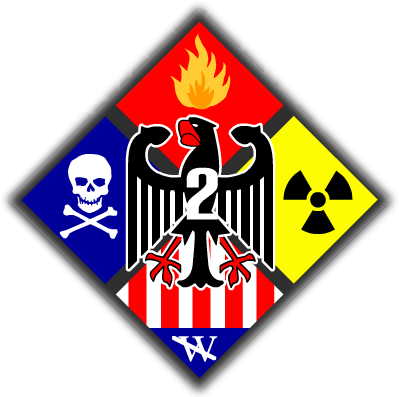
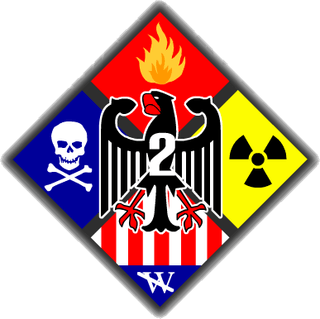
Confederación: escudos sin fondo y directorio en tarjetas
- Los 17 escudos pasan a PNG con fondo transparente (se quita el blanco o
  negro de fondo), recortados y de tamaño parejo.
- El directorio nacional deja de ser una tabla y usa las mismas tarjetas
  cargo + nombre de Dotación; se agrega el título Compañías confederadas.

Claude-Session: https://claude.ai/code/session_01Hu7YEUVhKE7yvRYdWmftyZ

Changed region(s): [[0.0, 0.0, 1.0, 1.0]]

diff --git a/confederacion/index.html b/confederacion/index.html
@@ -52,29 +52,36 @@
 <article class="wrap contenido">
 <p><strong><img src="../assets/img/2013-06-index_r1_c12.jpg" width="286" height="90" alt="Confederación de Compañías Chileno-Alemanas de Bomberos" loading="lazy">La Confederación de Compañías Chileno-Alemanas reúne a las compañías de bomberos que a lo largo de la Historia de Chile han sido fundadas por ciudadanos alemanes, o descendientes de alemanes, radicados en nuestra patria. Sus objetivos generales consisten en preservar la memoria de los fundadores, conservar tradiciones culturales alemanas, establecer una convivencia entre instituciones de origen cultural común, intercambiar información, conocimiento y capacitación para un mejor cumplimiento de nuestros objetivos operacionales.</strong></p>
 <p>Anualmente la Confederación efectúa una convención que reúne a numerosos delegados y que nos permite analizar administrativa y técnicamente la labor que efectuamos y conocer las experiencias de nuestros camaradas. La Confederación de Compañías Chileno–Alemanas es respetuosa de la institucionalidad establecida por la Junta Nacional de Cuerpos de Bomberos de Chile, respalda su trabajo y colabora en las tareas que institucionalmente ella dispone.</p>
-<p>Actualmente la Confederación es dirigida por un directorio nacional, compuesto por voluntarios elegidos de las 20 compañías confederadas a nivel nacional. El directorio actual, es el siguiente :</p>
-<table><tbody><tr><td>Directorio Confederación de Compañías Chileno-Alemanas de Bomberos</td></tr><tr><td>Presidente de la Confederación &#8211; Sr. Tomás Erber Rodolph</td></tr><tr><td>Vice Presidentes de la confederación<br>
-&#8211; Sr. Luis Rigo-Righi Aubel<br>
-&#8211; Sr. Marco Marín Negrín<br>
-&#8211; Sr. Vinicio Contreras</td></tr><tr><td>Secretario de la confederación &#8211; Sr. Eduardo Poehls Bustos</td></tr><tr><td>Tesorero de la Confederación &#8211; Sr. Jorge Tapia Castillo</td></tr><tr><td>Pdte. Comisión Técnica &#8211; Sr. Cristian Riquelme Guerraty</td></tr></tbody></table>
+<p>Actualmente la Confederación es dirigida por un directorio nacional, compuesto por voluntarios elegidos de las 20 compañías confederadas a nivel nacional. El directorio actual es el siguiente:</p>
+<h2>Directorio nacional</h2>
+<ul class="oficiales">
+<li><span>Presidente</span>Tomás Erber Rodolph</li>
+<li><span>Vicepresidente</span>Luis Rigo-Righi Aubel</li>
+<li><span>Vicepresidente</span>Marco Marín Negrín</li>
+<li><span>Vicepresidente</span>Vinicio Contreras</li>
+<li><span>Secretario</span>Eduardo Poehls Bustos</li>
+<li><span>Tesorero</span>Jorge Tapia Castillo</li>
+<li><span>Presidente Comisión Técnica</span>Cristian Riquelme Guerraty</li>
+</ul>
+<h2>Compañías confederadas</h2>
 <div class="cias">
-<article class="cia"><img src="../assets/img/confe-valparaiso-2.gif" width="220" height="272" alt="Escudo de la 2ª «Germania» de Valparaíso" loading="lazy"><h4>2ª «Germania» de Valparaíso</h4><p>Fundada el 30 de junio de 1851</p><p class="cia-dir">Blanco 630, Valparaíso</p><a href="https://bombagermania.cl/" target="_blank" rel="noopener">Sitio web</a></article>
-<article class="cia"><img src="../assets/img/confe-valdivia-1.png" width="157" height="198" alt="Escudo de la 1ª «Germania» de Valdivia" loading="lazy"><h4>1ª «Germania» de Valdivia</h4><p>Fundada el 1 de marzo de 1852</p><p class="cia-dir">Los Lingues 530, Valdivia</p></article>
-<article class="cia"><img src="../assets/img/confe-puerto-montt-2.png" width="209" height="242" alt="Escudo de la 2ª «Germania» de Puerto Montt" loading="lazy"><h4>2ª «Germania» de Puerto Montt</h4><p>Fundada el 19 de junio de 1865</p><p class="cia-dir">San Felipe s/n, Puerto Montt</p></article>
-<article class="cia"><img src="../assets/img/confe-osorno-2.jpg" width="167" height="113" alt="Escudo de la 2ª «Germania» de Osorno" loading="lazy"><h4>2ª «Germania» de Osorno</h4><p>Fundada el 27 de agosto de 1865</p><p class="cia-dir">O’Higgins 909, Osorno</p></article>
-<article class="cia"><img src="../assets/img/confe-la-union-1.jpg" width="300" height="337" alt="Escudo de la 1ª «Germania» de La Unión" loading="lazy"><h4>1ª «Germania» de La Unión</h4><p>Fundada el 3 de octubre de 1869</p><p class="cia-dir">Letelier 287, La Unión</p></article>
-<article class="cia"><img src="../assets/img/confe-temuco-3.jpg" width="105" height="117" alt="Escudo de la 3ª «Germania» de Temuco" loading="lazy"><h4>3ª «Germania» de Temuco</h4><p>Fundada el 25 de junio de 1899</p><p class="cia-dir">Prieto 450, Temuco</p><a href="https://germaniatemuco.cl/" target="_blank" rel="noopener">Sitio web</a></article>
-<article class="cia"><img src="../assets/img/confe-punta-arenas-3.png" width="300" height="300" alt="Escudo de la 3ª «Bomba Alemana» de Punta Arenas" loading="lazy"><h4>3ª «Bomba Alemana» de Punta Arenas</h4><p>Fundada el 19 de enero de 1901</p><p class="cia-dir">Av. Eduardo Frei Montalva 0983, Punta Arenas</p></article>
-<article class="cia"><img src="../assets/img/confe-talcahuano-5.jpg" width="150" height="131" alt="Escudo de la 5ª «Bomba Chile» de Talcahuano" loading="lazy"><h4>5ª «Bomba Chile» de Talcahuano</h4><p>Fundada el 29 de enero de 1908</p><p class="cia-dir">Avenida Río Maule 5383, Talcahuano</p></article>
-<article class="cia"><img src="../assets/img/confe-rio-bueno-1.jpg" width="440" height="300" alt="Escudo de la 1ª «Germania» de Río Bueno" loading="lazy"><h4>1ª «Germania» de Río Bueno</h4><p>Fundada el 9 de junio de 1909</p><p class="cia-dir">Independencia 1145, Río Bueno</p></article>
-<article class="cia"><img src="../assets/img/confe-puerto-varas-2.png" width="399" height="397" alt="Escudo de la 2ª «Germania» de Puerto Varas" loading="lazy"><h4>2ª «Germania» de Puerto Varas</h4><p>Fundada el 5 de marzo de 1911</p><p class="cia-dir">San Francisco 601, Puerto Varas</p><a href="https://www.segundagermania.cl/" target="_blank" rel="noopener">Sitio web</a></article>
-<article class="cia"><img src="../assets/img/confe-frutillar-1.jpg" width="360" height="300" alt="Escudo de la 1ª «Germania» de Frutillar" loading="lazy"><h4>1ª «Germania» de Frutillar</h4><p>Fundada el 10 de agosto de 1913</p><p class="cia-dir">Avenida Philippi 1065, Frutillar</p></article>
-<article class="cia"><img src="../assets/img/confe-llanquihue-1.jpg" width="236" height="300" alt="Escudo de la 1ª «Germania» de Llanquihue" loading="lazy"><h4>1ª «Germania» de Llanquihue</h4><p>Fundada el 4 de agosto de 1929</p><p class="cia-dir">Baquedano 1001, Llanquihue</p><a href="https://primeragermania.cl/" target="_blank" rel="noopener">Sitio web</a></article>
-<article class="cia"><img src="../assets/img/confe-concepcion-7.jpg" width="150" height="154" alt="Escudo de la 7ª «Bernhardt Eunom Philippi» de Concepción" loading="lazy"><h4>7ª «Bernhardt Eunom Philippi» de Concepción</h4><p>Fundada el 7 de septiembre de 1949</p><p class="cia-dir">Veteranos del 79 s/n, Concepción</p></article>
-<article class="cia"><img src="../assets/img/confe-santiago-15.png" width="175" height="177" alt="Escudo de la 15ª «Máximo Humbser» de Santiago" loading="lazy"><h4>15ª «Máximo Humbser» de Santiago</h4><p>Fundada el 29 de octubre de 1958</p><p class="cia-dir">Avenida Apoquindo 8115, Santiago</p></article>
-<article class="cia"><img src="../assets/img/confe-puerto-varas-6.jpg" width="338" height="353" alt="Escudo de la 6ª «Puerto Chico» de Puerto Varas" loading="lazy"><h4>6ª «Puerto Chico» de Puerto Varas</h4><p>Fundada el 18 de febrero de 1981</p><p class="cia-dir">Avenida Errázuriz s/n, Puerto Varas</p><a href="https://www.sechste.cl/" target="_blank" rel="noopener">Sitio web</a></article>
-<article class="cia"><img src="../assets/img/confe-pitrufquen-4.gif" width="165" height="216" alt="Escudo de la 4ª «Faja Maisan» de Pitrufquén" loading="lazy"><h4>4ª «Faja Maisan» de Pitrufquén</h4><p>Fundada el 26 de septiembre de 1981</p><p class="cia-dir">Faja Maisan s/n, Pitrufquén</p></article>
-<article class="cia"><img src="../assets/img/confe-los-angeles-6.jpg" width="500" height="600" alt="Escudo de la 6ª «Chileno Alemana» de Los Ángeles" loading="lazy"><h4>6ª «Chileno Alemana» de Los Ángeles</h4><p>Fundada el 14 de marzo de 1997</p><p class="cia-dir">Avenida Gabriela Mistral 1560, Los Ángeles</p></article>
+<article class="cia"><img src="../assets/img/confe-valparaiso-2.png" width="218" height="268" alt="Escudo de la 2ª «Germania» de Valparaíso" loading="lazy"><h4>2ª «Germania» de Valparaíso</h4><p>Fundada el 30 de junio de 1851</p><p class="cia-dir">Blanco 630, Valparaíso</p><a href="https://bombagermania.cl/" target="_blank" rel="noopener">Sitio web</a></article>
+<article class="cia"><img src="../assets/img/confe-valdivia-1.png" width="155" height="194" alt="Escudo de la 1ª «Germania» de Valdivia" loading="lazy"><h4>1ª «Germania» de Valdivia</h4><p>Fundada el 1 de marzo de 1852</p><p class="cia-dir">Los Lingues 530, Valdivia</p></article>
+<article class="cia"><img src="../assets/img/confe-puerto-montt-2.png" width="205" height="240" alt="Escudo de la 2ª «Germania» de Puerto Montt" loading="lazy"><h4>2ª «Germania» de Puerto Montt</h4><p>Fundada el 19 de junio de 1865</p><p class="cia-dir">San Felipe s/n, Puerto Montt</p></article>
+<article class="cia"><img src="../assets/img/confe-osorno-2.png" width="154" height="89" alt="Escudo de la 2ª «Germania» de Osorno" loading="lazy"><h4>2ª «Germania» de Osorno</h4><p>Fundada el 27 de agosto de 1865</p><p class="cia-dir">O’Higgins 909, Osorno</p></article>
+<article class="cia"><img src="../assets/img/confe-la-union-1.png" width="267" height="320" alt="Escudo de la 1ª «Germania» de La Unión" loading="lazy"><h4>1ª «Germania» de La Unión</h4><p>Fundada el 3 de octubre de 1869</p><p class="cia-dir">Letelier 287, La Unión</p></article>
+<article class="cia"><img src="../assets/img/confe-temuco-3.png" width="99" height="110" alt="Escudo de la 3ª «Germania» de Temuco" loading="lazy"><h4>3ª «Germania» de Temuco</h4><p>Fundada el 25 de junio de 1899</p><p class="cia-dir">Prieto 450, Temuco</p><a href="https://germaniatemuco.cl/" target="_blank" rel="noopener">Sitio web</a></article>
+<article class="cia"><img src="../assets/img/confe-punta-arenas-3.png" width="238" height="270" alt="Escudo de la 3ª «Bomba Alemana» de Punta Arenas" loading="lazy"><h4>3ª «Bomba Alemana» de Punta Arenas</h4><p>Fundada el 19 de enero de 1901</p><p class="cia-dir">Av. Eduardo Frei Montalva 0983, Punta Arenas</p></article>
+<article class="cia"><img src="../assets/img/confe-talcahuano-5.png" width="106" height="124" alt="Escudo de la 5ª «Bomba Chile» de Talcahuano" loading="lazy"><h4>5ª «Bomba Chile» de Talcahuano</h4><p>Fundada el 29 de enero de 1908</p><p class="cia-dir">Avenida Río Maule 5383, Talcahuano</p></article>
+<article class="cia"><img src="../assets/img/confe-rio-bueno-1.png" width="230" height="293" alt="Escudo de la 1ª «Germania» de Río Bueno" loading="lazy"><h4>1ª «Germania» de Río Bueno</h4><p>Fundada el 9 de junio de 1909</p><p class="cia-dir">Independencia 1145, Río Bueno</p></article>
+<article class="cia"><img src="../assets/img/confe-puerto-varas-2.png" width="320" height="319" alt="Escudo de la 2ª «Germania» de Puerto Varas" loading="lazy"><h4>2ª «Germania» de Puerto Varas</h4><p>Fundada el 5 de marzo de 1911</p><p class="cia-dir">San Francisco 601, Puerto Varas</p><a href="https://www.segundagermania.cl/" target="_blank" rel="noopener">Sitio web</a></article>
+<article class="cia"><img src="../assets/img/confe-frutillar-1.png" width="284" height="278" alt="Escudo de la 1ª «Germania» de Frutillar" loading="lazy"><h4>1ª «Germania» de Frutillar</h4><p>Fundada el 10 de agosto de 1913</p><p class="cia-dir">Avenida Philippi 1065, Frutillar</p></article>
+<article class="cia"><img src="../assets/img/confe-llanquihue-1.png" width="236" height="300" alt="Escudo de la 1ª «Germania» de Llanquihue" loading="lazy"><h4>1ª «Germania» de Llanquihue</h4><p>Fundada el 4 de agosto de 1929</p><p class="cia-dir">Baquedano 1001, Llanquihue</p><a href="https://primeragermania.cl/" target="_blank" rel="noopener">Sitio web</a></article>
+<article class="cia"><img src="../assets/img/confe-concepcion-7.png" width="142" height="139" alt="Escudo de la 7ª «Bernhardt Eunom Philippi» de Concepción" loading="lazy"><h4>7ª «Bernhardt Eunom Philippi» de Concepción</h4><p>Fundada el 7 de septiembre de 1949</p><p class="cia-dir">Veteranos del 79 s/n, Concepción</p></article>
+<article class="cia"><img src="../assets/img/confe-santiago-15.png" width="173" height="161" alt="Escudo de la 15ª «Máximo Humbser» de Santiago" loading="lazy"><h4>15ª «Máximo Humbser» de Santiago</h4><p>Fundada el 29 de octubre de 1958</p><p class="cia-dir">Avenida Apoquindo 8115, Santiago</p></article>
+<article class="cia"><img src="../assets/img/confe-puerto-varas-6.png" width="273" height="320" alt="Escudo de la 6ª «Puerto Chico» de Puerto Varas" loading="lazy"><h4>6ª «Puerto Chico» de Puerto Varas</h4><p>Fundada el 18 de febrero de 1981</p><p class="cia-dir">Avenida Errázuriz s/n, Puerto Varas</p><a href="https://www.sechste.cl/" target="_blank" rel="noopener">Sitio web</a></article>
+<article class="cia"><img src="../assets/img/confe-pitrufquen-4.png" width="161" height="209" alt="Escudo de la 4ª «Faja Maisan» de Pitrufquén" loading="lazy"><h4>4ª «Faja Maisan» de Pitrufquén</h4><p>Fundada el 26 de septiembre de 1981</p><p class="cia-dir">Faja Maisan s/n, Pitrufquén</p></article>
+<article class="cia"><img src="../assets/img/confe-los-angeles-6.png" width="193" height="320" alt="Escudo de la 6ª «Chileno Alemana» de Los Ángeles" loading="lazy"><h4>6ª «Chileno Alemana» de Los Ángeles</h4><p>Fundada el 14 de marzo de 1997</p><p class="cia-dir">Avenida Gabriela Mistral 1560, Los Ángeles</p></article>
 <article class="cia"><h4>1ª «Germania» de Paillaco</h4><p>Fecha de fundación por confirmar</p></article>
 <article class="cia"><h4>4ª «Los Bajos» de Frutillar</h4><p>Fecha de fundación por confirmar</p></article>
 </div>

diff --git a/herramientas/contenido/confederacion.html b/herramientas/contenido/confederacion.html
@@ -1,28 +1,35 @@
 <p><strong><img src="../assets/img/2013-06-index_r1_c12.jpg" alt="Confederación de Compañías Chileno-Alemanas de Bomberos" loading="lazy">La Confederación de Compañías Chileno-Alemanas reúne a las compañías de bomberos que a lo largo de la Historia de Chile han sido fundadas por ciudadanos alemanes, o descendientes de alemanes, radicados en nuestra patria. Sus objetivos generales consisten en preservar la memoria de los fundadores, conservar tradiciones culturales alemanas, establecer una convivencia entre instituciones de origen cultural común, intercambiar información, conocimiento y capacitación para un mejor cumplimiento de nuestros objetivos operacionales.</strong></p>
 <p>Anualmente la Confederación efectúa una convención que reúne a numerosos delegados y que nos permite analizar administrativa y técnicamente la labor que efectuamos y conocer las experiencias de nuestros camaradas. La Confederación de Compañías Chileno–Alemanas es respetuosa de la institucionalidad establecida por la Junta Nacional de Cuerpos de Bomberos de Chile, respalda su trabajo y colabora en las tareas que institucionalmente ella dispone.</p>
-<p>Actualmente la Confederación es dirigida por un directorio nacional, compuesto por voluntarios elegidos de las 20 compañías confederadas a nivel nacional. El directorio actual, es el siguiente :</p>
-<table><tbody><tr><td>Directorio Confederación de Compañías Chileno-Alemanas de Bomberos</td></tr><tr><td>Presidente de la Confederación &#8211; Sr. Tomás Erber Rodolph</td></tr><tr><td>Vice Presidentes de la confederación<br>
-&#8211; Sr. Luis Rigo-Righi Aubel<br>
-&#8211; Sr. Marco Marín Negrín<br>
-&#8211; Sr. Vinicio Contreras</td></tr><tr><td>Secretario de la confederación &#8211; Sr. Eduardo Poehls Bustos</td></tr><tr><td>Tesorero de la Confederación &#8211; Sr. Jorge Tapia Castillo</td></tr><tr><td>Pdte. Comisión Técnica &#8211; Sr. Cristian Riquelme Guerraty</td></tr></tbody></table>
+<p>Actualmente la Confederación es dirigida por un directorio nacional, compuesto por voluntarios elegidos de las 20 compañías confederadas a nivel nacional. El directorio actual es el siguiente:</p>
+<h2>Directorio nacional</h2>
+<ul class="oficiales">
+<li><span>Presidente</span>Tomás Erber Rodolph</li>
+<li><span>Vicepresidente</span>Luis Rigo-Righi Aubel</li>
+<li><span>Vicepresidente</span>Marco Marín Negrín</li>
+<li><span>Vicepresidente</span>Vinicio Contreras</li>
+<li><span>Secretario</span>Eduardo Poehls Bustos</li>
+<li><span>Tesorero</span>Jorge Tapia Castillo</li>
+<li><span>Presidente Comisión Técnica</span>Cristian Riquelme Guerraty</li>
+</ul>
+<h2>Compañías confederadas</h2>
 <div class="cias">
-<article class="cia"><img src="../assets/img/confe-valparaiso-2.gif" alt="Escudo de la 2ª «Germania» de Valparaíso" loading="lazy"><h4>2ª «Germania» de Valparaíso</h4><p>Fundada el 30 de junio de 1851</p><p class="cia-dir">Blanco 630, Valparaíso</p><a href="https://bombagermania.cl/" target="_blank" rel="noopener">Sitio web</a></article>
+<article class="cia"><img src="../assets/img/confe-valparaiso-2.png" alt="Escudo de la 2ª «Germania» de Valparaíso" loading="lazy"><h4>2ª «Germania» de Valparaíso</h4><p>Fundada el 30 de junio de 1851</p><p class="cia-dir">Blanco 630, Valparaíso</p><a href="https://bombagermania.cl/" target="_blank" rel="noopener">Sitio web</a></article>
 <article class="cia"><img src="../assets/img/confe-valdivia-1.png" alt="Escudo de la 1ª «Germania» de Valdivia" loading="lazy"><h4>1ª «Germania» de Valdivia</h4><p>Fundada el 1 de marzo de 1852</p><p class="cia-dir">Los Lingues 530, Valdivia</p></article>
 <article class="cia"><img src="../assets/img/confe-puerto-montt-2.png" alt="Escudo de la 2ª «Germania» de Puerto Montt" loading="lazy"><h4>2ª «Germania» de Puerto Montt</h4><p>Fundada el 19 de junio de 1865</p><p class="cia-dir">San Felipe s/n, Puerto Montt</p></article>
-<article class="cia"><img src="../assets/img/confe-osorno-2.jpg" alt="Escudo de la 2ª «Germania» de Osorno" loading="lazy"><h4>2ª «Germania» de Osorno</h4><p>Fundada el 27 de agosto de 1865</p><p class="cia-dir">O’Higgins 909, Osorno</p></article>
-<article class="cia"><img src="../assets/img/confe-la-union-1.jpg" alt="Escudo de la 1ª «Germania» de La Unión" loading="lazy"><h4>1ª «Germania» de La Unión</h4><p>Fundada el 3 de octubre de 1869</p><p class="cia-dir">Letelier 287, La Unión</p></article>
-<article class="cia"><img src="../assets/img/confe-temuco-3.jpg" alt="Escudo de la 3ª «Germania» de Temuco" loading="lazy"><h4>3ª «Germania» de Temuco</h4><p>Fundada el 25 de junio de 1899</p><p class="cia-dir">Prieto 450, Temuco</p><a href="https://germaniatemuco.cl/" target="_blank" rel="noopener">Sitio web</a></article>
+<article class="cia"><img src="../assets/img/confe-osorno-2.png" alt="Escudo de la 2ª «Germania» de Osorno" loading="lazy"><h4>2ª «Germania» de Osorno</h4><p>Fundada el 27 de agosto de 1865</p><p class="cia-dir">O’Higgins 909, Osorno</p></article>
+<article class="cia"><img src="../assets/img/confe-la-union-1.png" alt="Escudo de la 1ª «Germania» de La Unión" loading="lazy"><h4>1ª «Germania» de La Unión</h4><p>Fundada el 3 de octubre de 1869</p><p class="cia-dir">Letelier 287, La Unión</p></article>
+<article class="cia"><img src="../assets/img/confe-temuco-3.png" alt="Escudo de la 3ª «Germania» de Temuco" loading="lazy"><h4>3ª «Germania» de Temuco</h4><p>Fundada el 25 de junio de 1899</p><p class="cia-dir">Prieto 450, Temuco</p><a href="https://germaniatemuco.cl/" target="_blank" rel="noopener">Sitio web</a></article>
 <article class="cia"><img src="../assets/img/confe-punta-arenas-3.png" alt="Escudo de la 3ª «Bomba Alemana» de Punta Arenas" loading="lazy"><h4>3ª «Bomba Alemana» de Punta Arenas</h4><p>Fundada el 19 de enero de 1901</p><p class="cia-dir">Av. Eduardo Frei Montalva 0983, Punta Arenas</p></article>
-<article class="cia"><img src="../assets/img/confe-talcahuano-5.jpg" alt="Escudo de la 5ª «Bomba Chile» de Talcahuano" loading="lazy"><h4>5ª «Bomba Chile» de Talcahuano</h4><p>Fundada el 29 de enero de 1908</p><p class="cia-dir">Avenida Río Maule 5383, Talcahuano</p></article>
-<article class="cia"><img src="../assets/img/confe-rio-bueno-1.jpg" alt="Escudo de la 1ª «Germania» de Río Bueno" loading="lazy"><h4>1ª «Germania» de Río Bueno</h4><p>Fundada el 9 de junio de 1909</p><p class="cia-dir">Independencia 1145, Río Bueno</p></article>
+<article class="cia"><img src="../assets/img/confe-talcahuano-5.png" alt="Escudo de la 5ª «Bomba Chile» de Talcahuano" loading="lazy"><h4>5ª «Bomba Chile» de Talcahuano</h4><p>Fundada el 29 de enero de 1908</p><p class="cia-dir">Avenida Río Maule 5383, Talcahuano</p></article>
+<article class="cia"><img src="../assets/img/confe-rio-bueno-1.png" alt="Escudo de la 1ª «Germania» de Río Bueno" loading="lazy"><h4>1ª «Germania» de Río Bueno</h4><p>Fundada el 9 de junio de 1909</p><p class="cia-dir">Independencia 1145, Río Bueno</p></article>
 <article class="cia"><img src="../assets/img/confe-puerto-varas-2.png" alt="Escudo de la 2ª «Germania» de Puerto Varas" loading="lazy"><h4>2ª «Germania» de Puerto Varas</h4><p>Fundada el 5 de marzo de 1911</p><p class="cia-dir">San Francisco 601, Puerto Varas</p><a href="https://www.segundagermania.cl/" target="_blank" rel="noopener">Sitio web</a></article>
-<article class="cia"><img src="../assets/img/confe-frutillar-1.jpg" alt="Escudo de la 1ª «Germania» de Frutillar" loading="lazy"><h4>1ª «Germania» de Frutillar</h4><p>Fundada el 10 de agosto de 1913</p><p class="cia-dir">Avenida Philippi 1065, Frutillar</p></article>
-<article class="cia"><img src="../assets/img/confe-llanquihue-1.jpg" alt="Escudo de la 1ª «Germania» de Llanquihue" loading="lazy"><h4>1ª «Germania» de Llanquihue</h4><p>Fundada el 4 de agosto de 1929</p><p class="cia-dir">Baquedano 1001, Llanquihue</p><a href="https://primeragermania.cl/" target="_blank" rel="noopener">Sitio web</a></article>
-<article class="cia"><img src="../assets/img/confe-concepcion-7.jpg" alt="Escudo de la 7ª «Bernhardt Eunom Philippi» de Concepción" loading="lazy"><h4>7ª «Bernhardt Eunom Philippi» de Concepción</h4><p>Fundada el 7 de septiembre de 1949</p><p class="cia-dir">Veteranos del 79 s/n, Concepción</p></article>
+<article class="cia"><img src="../assets/img/confe-frutillar-1.png" alt="Escudo de la 1ª «Germania» de Frutillar" loading="lazy"><h4>1ª «Germania» de Frutillar</h4><p>Fundada el 10 de agosto de 1913</p><p class="cia-dir">Avenida Philippi 1065, Frutillar</p></article>
+<article class="cia"><img src="../assets/img/confe-llanquihue-1.png" alt="Escudo de la 1ª «Germania» de Llanquihue" loading="lazy"><h4>1ª «Germania» de Llanquihue</h4><p>Fundada el 4 de agosto de 1929</p><p class="cia-dir">Baquedano 1001, Llanquihue</p><a href="https://primeragermania.cl/" target="_blank" rel="noopener">Sitio web</a></article>
+<article class="cia"><img src="../assets/img/confe-concepcion-7.png" alt="Escudo de la 7ª «Bernhardt Eunom Philippi» de Concepción" loading="lazy"><h4>7ª «Bernhardt Eunom Philippi» de Concepción</h4><p>Fundada el 7 de septiembre de 1949</p><p class="cia-dir">Veteranos del 79 s/n, Concepción</p></article>
 <article class="cia"><img src="../assets/img/confe-santiago-15.png" alt="Escudo de la 15ª «Máximo Humbser» de Santiago" loading="lazy"><h4>15ª «Máximo Humbser» de Santiago</h4><p>Fundada el 29 de octubre de 1958</p><p class="cia-dir">Avenida Apoquindo 8115, Santiago</p></article>
-<article class="cia"><img src="../assets/img/confe-puerto-varas-6.jpg" alt="Escudo de la 6ª «Puerto Chico» de Puerto Varas" loading="lazy"><h4>6ª «Puerto Chico» de Puerto Varas</h4><p>Fundada el 18 de febrero de 1981</p><p class="cia-dir">Avenida Errázuriz s/n, Puerto Varas</p><a href="https://www.sechste.cl/" target="_blank" rel="noopener">Sitio web</a></article>
-<article class="cia"><img src="../assets/img/confe-pitrufquen-4.gif" alt="Escudo de la 4ª «Faja Maisan» de Pitrufquén" loading="lazy"><h4>4ª «Faja Maisan» de Pitrufquén</h4><p>Fundada el 26 de septiembre de 1981</p><p class="cia-dir">Faja Maisan s/n, Pitrufquén</p></article>
-<article class="cia"><img src="../assets/img/confe-los-angeles-6.jpg" alt="Escudo de la 6ª «Chileno Alemana» de Los Ángeles" loading="lazy"><h4>6ª «Chileno Alemana» de Los Ángeles</h4><p>Fundada el 14 de marzo de 1997</p><p class="cia-dir">Avenida Gabriela Mistral 1560, Los Ángeles</p></article>
+<article class="cia"><img src="../assets/img/confe-puerto-varas-6.png" alt="Escudo de la 6ª «Puerto Chico» de Puerto Varas" loading="lazy"><h4>6ª «Puerto Chico» de Puerto Varas</h4><p>Fundada el 18 de febrero de 1981</p><p class="cia-dir">Avenida Errázuriz s/n, Puerto Varas</p><a href="https://www.sechste.cl/" target="_blank" rel="noopener">Sitio web</a></article>
+<article class="cia"><img src="../assets/img/confe-pitrufquen-4.png" alt="Escudo de la 4ª «Faja Maisan» de Pitrufquén" loading="lazy"><h4>4ª «Faja Maisan» de Pitrufquén</h4><p>Fundada el 26 de septiembre de 1981</p><p class="cia-dir">Faja Maisan s/n, Pitrufquén</p></article>
+<article class="cia"><img src="../assets/img/confe-los-angeles-6.png" alt="Escudo de la 6ª «Chileno Alemana» de Los Ángeles" loading="lazy"><h4>6ª «Chileno Alemana» de Los Ángeles</h4><p>Fundada el 14 de marzo de 1997</p><p class="cia-dir">Avenida Gabriela Mistral 1560, Los Ángeles</p></article>
 <article class="cia"><h4>1ª «Germania» de Paillaco</h4><p>Fecha de fundación por confirmar</p></article>
 <article class="cia"><h4>4ª «Los Bajos» de Frutillar</h4><p>Fecha de fundación por confirmar</p></article>
 </div>

diff --git a/cuerpo-de-bomberos/index.html b/cuerpo-de-bomberos/index.html
@@ -58,7 +58,7 @@
 <article class="cia"><span class="cia-num" aria-hidden="true">2</span><h4>2ª «Zapadores»</h4><p>Fundada el 8 de noviembre de 1888</p><p class="cia-dir">Especialidad: escalas · Sector Brisa del Sol</p></article>
 <article class="cia"><span class="cia-num" aria-hidden="true">3</span><h4>3ª «Salvadora y Guardia de la Propiedad»</h4><p>Fundada el 30 de julio de 1900</p><p class="cia-dir">Especialidad: agua · David Fuentes 456</p></article>
 <article class="cia"><span class="cia-num" aria-hidden="true">4</span><h4>4ª «Umberto Primo»</h4><p>Fundada el 7 de julio de 1901</p><p class="cia-dir">Especialidad: agua · Sector Cruz del Sur</p></article>
-<article class="cia"><img src="../assets/img/confe-talcahuano-5.jpg" width="150" height="131" alt="Escudo de la 5ª Compañía «Bomba Chile»" loading="lazy"><h4>5ª «Bomba Chile»</h4><p>Fundada el 29 de enero de 1908</p><p class="cia-dir">Especialidad: agua · Villa Independencia</p><a href="../la-quinta/">Nuestra compañía</a></article>
+<article class="cia"><img src="../assets/img/confe-talcahuano-5.png" width="106" height="124" alt="Escudo de la 5ª Compañía «Bomba Chile»" loading="lazy"><h4>5ª «Bomba Chile»</h4><p>Fundada el 29 de enero de 1908</p><p class="cia-dir">Especialidad: agua · Villa Independencia</p><a href="../la-quinta/">Nuestra compañía</a></article>
 <article class="cia"><span class="cia-num" aria-hidden="true">6</span><h4>6ª «Salvadora»</h4><p>Fundada el 18 de diciembre de 1911</p><p class="cia-dir">Especialidad: agua · Sector Los Cerros</p></article>
 <article class="cia"><span class="cia-num" aria-hidden="true">7</span><h4>7ª «Bomba Almirante Calixto Rogers»</h4><p>Fundada el 30 de diciembre de 1931</p><p class="cia-dir">Especialidad: agua · Base Naval de Talcahuano</p></article>
 <article class="cia"><span class="cia-num" aria-hidden="true">8</span><h4>8ª «Bomba Huachipato»</h4><p>Fundada el 8 de octubre de 1948</p><p class="cia-dir">Especialidad: agua · Sector Las Higueras</p></article>

diff --git a/herramientas/contenido/cbt.html b/herramientas/contenido/cbt.html
@@ -6,7 +6,7 @@
 <article class="cia"><span class="cia-num" aria-hidden="true">2</span><h4>2ª «Zapadores»</h4><p>Fundada el 8 de noviembre de 1888</p><p class="cia-dir">Especialidad: escalas · Sector Brisa del Sol</p></article>
 <article class="cia"><span class="cia-num" aria-hidden="true">3</span><h4>3ª «Salvadora y Guardia de la Propiedad»</h4><p>Fundada el 30 de julio de 1900</p><p class="cia-dir">Especialidad: agua · David Fuentes 456</p></article>
 <article class="cia"><span class="cia-num" aria-hidden="true">4</span><h4>4ª «Umberto Primo»</h4><p>Fundada el 7 de julio de 1901</p><p class="cia-dir">Especialidad: agua · Sector Cruz del Sur</p></article>
-<article class="cia"><img src="../assets/img/confe-talcahuano-5.jpg" alt="Escudo de la 5ª Compañía «Bomba Chile»" loading="lazy"><h4>5ª «Bomba Chile»</h4><p>Fundada el 29 de enero de 1908</p><p class="cia-dir">Especialidad: agua · Villa Independencia</p><a href="../la-quinta/">Nuestra compañía</a></article>
+<article class="cia"><img src="../assets/img/confe-talcahuano-5.png" alt="Escudo de la 5ª Compañía «Bomba Chile»" loading="lazy"><h4>5ª «Bomba Chile»</h4><p>Fundada el 29 de enero de 1908</p><p class="cia-dir">Especialidad: agua · Villa Independencia</p><a href="../la-quinta/">Nuestra compañía</a></article>
 <article class="cia"><span class="cia-num" aria-hidden="true">6</span><h4>6ª «Salvadora»</h4><p>Fundada el 18 de diciembre de 1911</p><p class="cia-dir">Especialidad: agua · Sector Los Cerros</p></article>
 <article class="cia"><span class="cia-num" aria-hidden="true">7</span><h4>7ª «Bomba Almirante Calixto Rogers»</h4><p>Fundada el 30 de diciembre de 1931</p><p class="cia-dir">Especialidad: agua · Base Naval de Talcahuano</p></article>
 <article class="cia"><span class="cia-num" aria-hidden="true">8</span><h4>8ª «Bomba Huachipato»</h4><p>Fundada el 8 de octubre de 1948</p><p class="cia-dir">Especialidad: agua · Sector Las Higueras</p></article>
